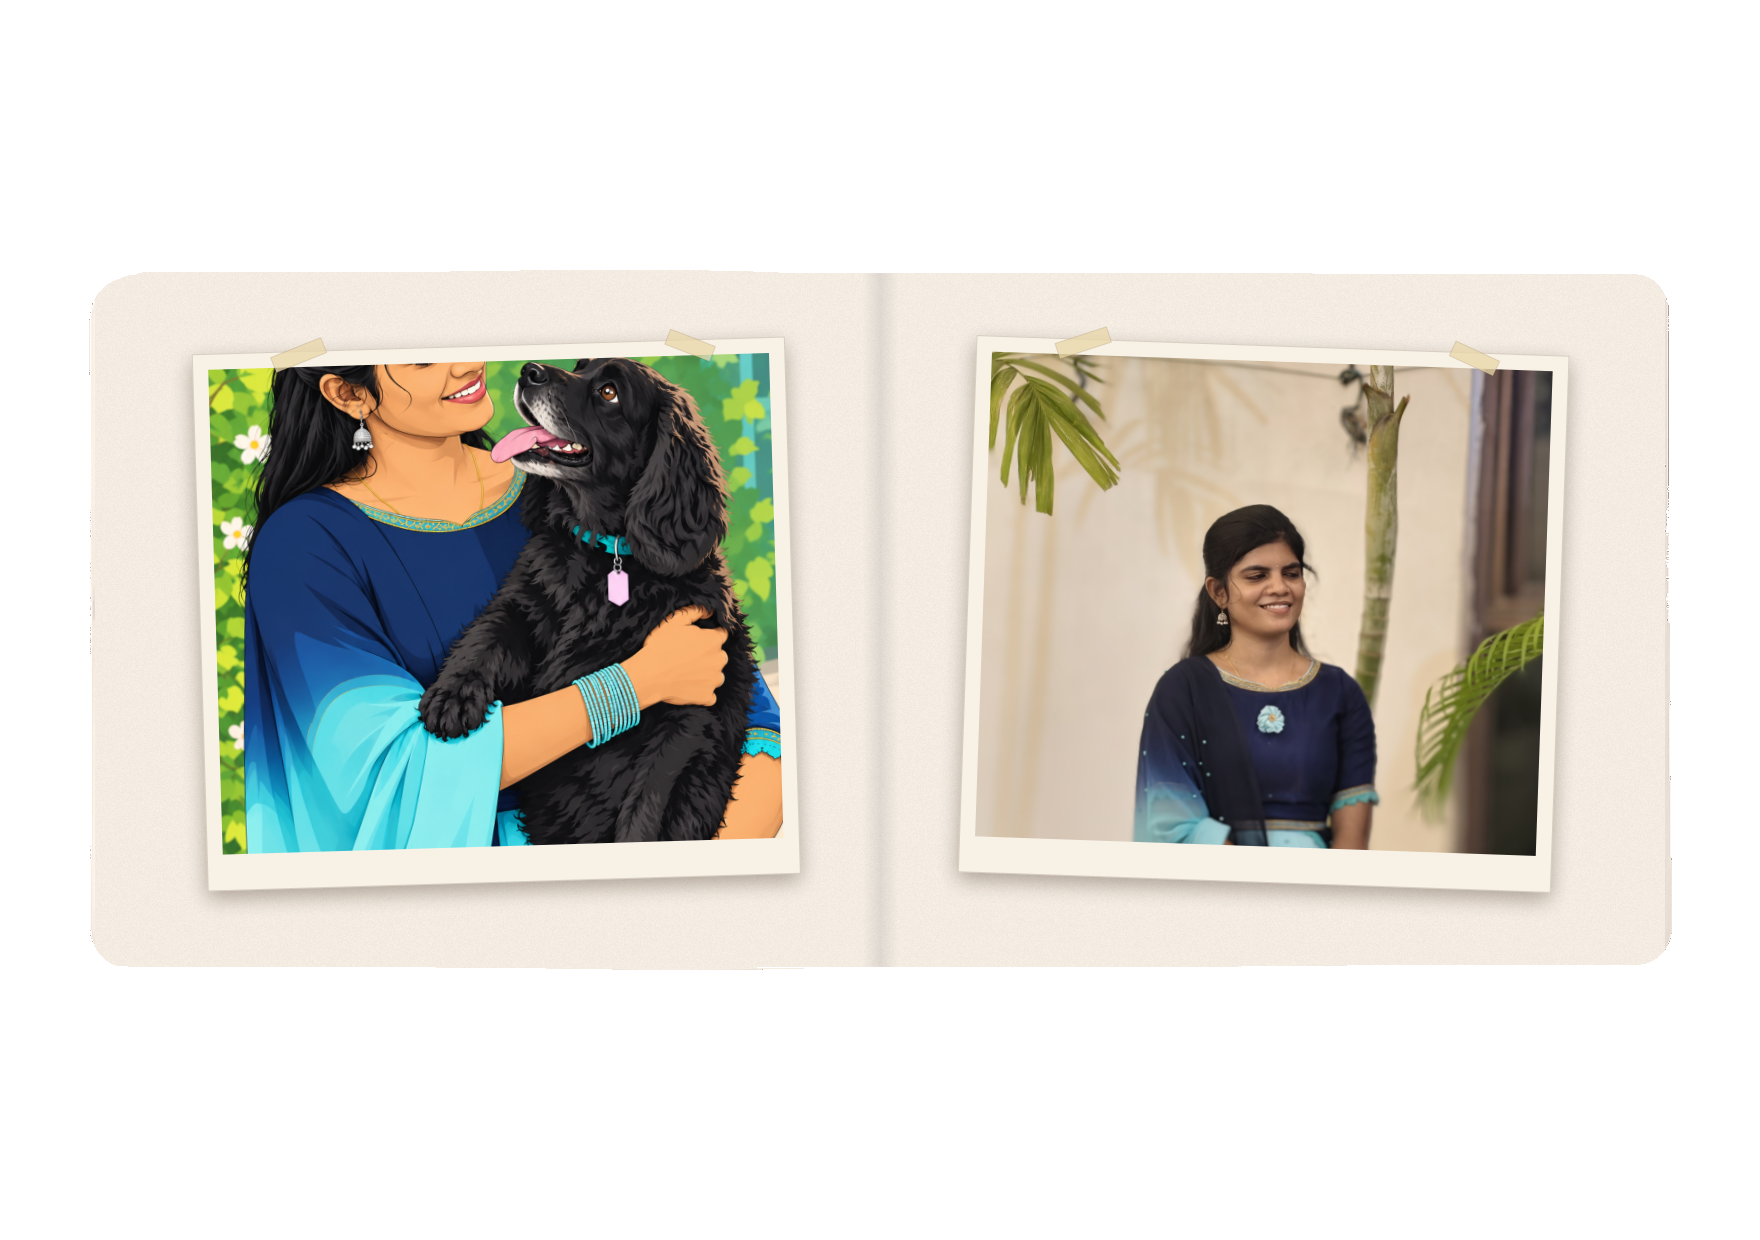
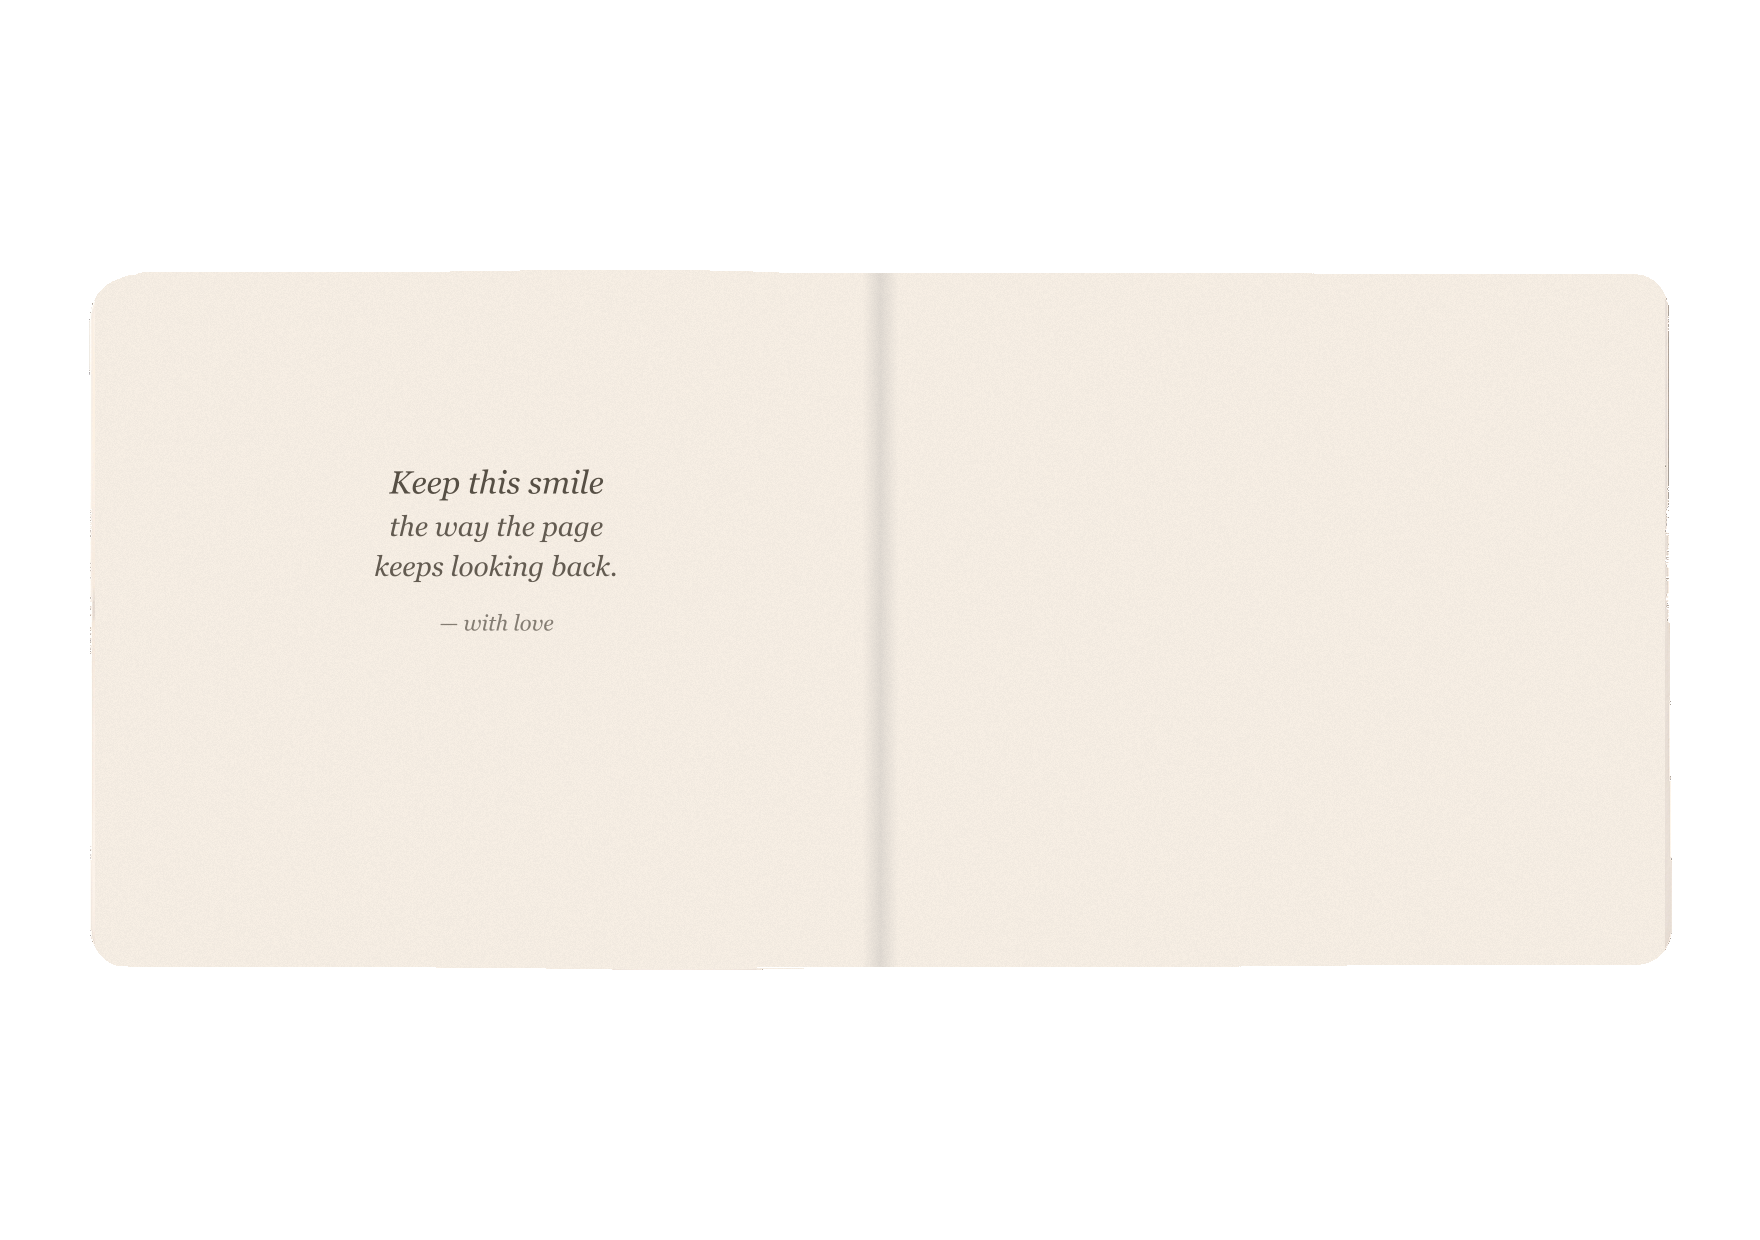
new chages

Changed region(s): [[0.0938, 0.2452, 0.4688, 0.7355], [0.5312, 0.2452, 0.9062, 0.7355]]

diff --git a/src/screens/AzhagiiiSketchbook.js b/src/screens/AzhagiiiSketchbook.js
@@ -2,12 +2,9 @@
 import './AzhagiiiSketchbook.css';
 
 const PHOTOS = [
-  '/photos/az-book/p0.png?v=2',
-  '/photos/az-book/p1.png?v=2',
-  '/photos/az-book/p2.png?v=2',
-  '/photos/az-book/p3.png?v=2',
-  '/photos/az-book/p4.png?v=2',
-  '/photos/az-book/p5.png?v=2',
+  '/photos/az-book/p0.png?v=3',
+  '/photos/az-book/p1.png?v=3',
+  '/photos/az-book/p2.png?v=3',
 ];
 const SKETCHES = [
   '/photos/az-book/sketches/marina-bay-sands.png',
@@ -23,7 +20,6 @@ const SKETCHES = [
 const PHOTO_N = PHOTOS.length;
 const SKETCH_N = SKETCHES.length;
 const LAND = 6;
-const N = 18;
 const SPAN = 0.449;
 const BETA = 0.6;
 const TILT_X = 4.5;
@@ -45,6 +41,7 @@ let closeWait = null;
 let introOn = false;
 let riffle = null;
 let riffleAt = 0;
+let introQueued = false;
 
 const view = { rx: 0, ry: 0, z: 1, trx: 0, try_: 0, tz: 1 };
 let viewActive = false;
@@ -57,6 +54,28 @@ function el(t, c) {
 
 function wrapN() {
   return introOn ? SKETCH_N : PHOTO_N;
+}
+
+function stripCount() {
+  return window.matchMedia('(pointer: coarse)').matches ? 12 : 18;
+}
+
+function useBlur() {
+  return !window.matchMedia('(pointer: coarse), (prefers-reduced-motion: reduce)').matches;
+}
+
+function phonePortrait() {
+  return window.matchMedia('(orientation: portrait) and (max-width: 900px)').matches;
+}
+
+function syncRotate() {
+  if (!overlay) return;
+  const need = open && phonePortrait();
+  overlay.classList.toggle('need-rotate', need);
+  if (!need && introQueued && open && !reduced) {
+    introQueued = false;
+    startIntro();
+  }
 }
 
 function sketchUrl(i) {
@@ -95,15 +114,16 @@ function halfEl(pos, i) {
 
 function buildCurl(dir, from, to) {
   strips = [];
+  const n = stripCount();
   const c = el('div', 'curl ' + dir);
-  c.style.setProperty('--n', N);
+  c.style.setProperty('--n', n);
   c.style.setProperty('--span', SPAN);
   let host = c;
-  for (let i = 0; i < N; i++) {
+  for (let i = 0; i < n; i++) {
     const s = el('div', 'strip');
     s.style.setProperty('--i', i);
     const gut = 'calc(var(--bw) * 0.5)';
-    const sw = 'calc(var(--bw) * ' + SPAN + ' / ' + N + ')';
+    const sw = 'calc(var(--bw) * ' + SPAN + ' / ' + n + ')';
     const A = 'calc(-1 * (' + gut + ' + ' + i + ' * ' + sw + '))';
     const B = 'calc(' + (i + 1) + ' * ' + sw + ' - ' + gut + ')';
     const f = el('div', 'face front');
@@ -120,7 +140,7 @@ function buildCurl(dir, from, to) {
     b.appendChild(el('div', 'gl'));
     s.appendChild(f);
     s.appendChild(b);
-    if (i === N - 1) s.classList.add('edge');
+    if (i === n - 1) s.classList.add('edge');
     host.appendChild(s);
     host = s;
     strips.push(s);
@@ -132,8 +152,9 @@ function applyTurn(t) {
   const th = Math.PI * t;
   const beta = BETA * Math.sin(Math.PI * t);
   const D = 180 / Math.PI;
+  const n = strips.length || stripCount();
   const tt = th + beta;
-  const td = (2 * beta) / N;
+  const td = (2 * beta) / n;
   sb3d.style.setProperty('--tt', (tt * D).toFixed(2) + 'deg');
   sb3d.style.setProperty('--td', (td * D).toFixed(3) + 'deg');
   sb3d.style.setProperty('--shade', Math.sin(Math.PI * t).toFixed(3));
@@ -315,7 +336,7 @@ function startIntro() {
     }
     riffleAt = 0;
     introOn = true;
-    wrap?.classList.add('intro');
+    if (useBlur()) wrap?.classList.add('intro');
   }
   riffleStep();
 }
@@ -447,7 +468,9 @@ function onKey(e) {
 }
 
 function onResize() {
-  if (open) layout();
+  if (!open) return;
+  syncRotate();
+  layout();
 }
 
 function bind() {
@@ -463,6 +486,7 @@ function bind() {
   rightBtn.addEventListener('click', () => step('next'));
   window.addEventListener('keydown', onKey);
   window.addEventListener('resize', onResize);
+  window.addEventListener('orientationchange', onResize);
 }
 
 function preload() {
@@ -508,17 +532,24 @@ export function openSketchbook() {
   view.ry = view.try_ = 0;
   view.z = view.tz = 1;
   open = true;
-  overlay.classList.remove('is-leaving');
+  introQueued = false;
+  overlay.classList.remove('is-leaving', 'need-rotate');
   overlay.classList.add('is-on');
   overlay.setAttribute('aria-hidden', 'false');
+  document.body.classList.add('az-book-open');
   applyView();
   introOn = !reduced;
-  if (introOn) wrap?.classList.add('intro');
+  if (introOn && useBlur()) wrap?.classList.add('intro');
   requestAnimationFrame(() => {
     layout();
     paint();
     requestAnimationFrame(() => {
       layout();
+      if (phonePortrait()) {
+        introQueued = !reduced;
+        overlay.classList.add('need-rotate');
+        return;
+      }
       setTimeout(startIntro, 40);
     });
   });
@@ -532,12 +563,14 @@ export function closeSketchbook() {
   }
   closing = true;
   open = false;
+  introQueued = false;
   drag = null;
   spring = null;
   turn = null;
   endIntro();
+  document.body.classList.remove('az-book-open');
   overlay.classList.add('is-leaving');
-  overlay.classList.remove('is-on');
+  overlay.classList.remove('is-on', 'need-rotate');
   overlay.setAttribute('aria-hidden', 'true');
   if (raf) {
     cancelAnimationFrame(raf);

diff --git a/src/screens/AzhagiiiSketchbook.css b/src/screens/AzhagiiiSketchbook.css
@@ -23,13 +23,15 @@
   user-select:none;
   -webkit-user-select:none;
   cursor:auto;
+  background:#0c0a08;
+  isolation:isolate;
 }
 #azSketch.is-on,
 #azSketch.is-leaving{
   visibility:visible;
   pointer-events:auto;
   opacity:1;
-  transition:opacity .45s ease;
+  transition:opacity .4s ease;
 }
 #azSketch.is-leaving{
   opacity:0;
@@ -40,8 +42,81 @@
   position:absolute;
   inset:0;
   background:
-    radial-gradient(ellipse 72% 60% at 50% 42%, rgba(28,18,10,.35) 0%, rgba(8,6,4,.78) 100%);
+    radial-gradient(ellipse 70% 58% at 50% 40%, #4a3a28 0%, #2a2118 38%, #0c0a08 100%);
   pointer-events:none;
+}
+
+body.az-book-open .music-box-btn,
+body.az-book-open .replay{
+  opacity:0 !important;
+  visibility:hidden !important;
+  pointer-events:none !important;
+}
+
+.az-sketch__rotate{
+  display:none;
+  position:absolute;
+  inset:0;
+  z-index:90;
+  flex-direction:column;
+  align-items:center;
+  justify-content:center;
+  gap:18px;
+  padding:24px;
+  text-align:center;
+  pointer-events:none;
+}
+#azSketch.need-rotate .az-sketch__rotate{ display:flex; }
+#azSketch.need-rotate .az-sketch__inner,
+#azSketch.need-rotate .sb-arrow{
+  visibility:hidden;
+  pointer-events:none;
+}
+.az-sketch__phone{
+  width:52px;
+  height:88px;
+  display:grid;
+  place-items:center;
+  animation:azPhoneTurn 1.8s ease-in-out infinite;
+}
+.az-sketch__phone-body{
+  width:40px;
+  height:68px;
+  border:2.5px solid #fde68a;
+  border-radius:8px;
+  box-shadow:inset 0 -6px 0 0 rgba(253,230,138,.18);
+  position:relative;
+}
+.az-sketch__phone-body::after{
+  content:"";
+  position:absolute;
+  left:50%;
+  bottom:6px;
+  width:10px;
+  height:3px;
+  border-radius:2px;
+  background:#fde68a;
+  transform:translateX(-50%);
+}
+.az-sketch__rotate-title{
+  margin:0;
+  color:#fde68a;
+  font-family:"Inter Tight",system-ui,sans-serif;
+  font-weight:600;
+  font-size:15px;
+  letter-spacing:.14em;
+  text-transform:uppercase;
+}
+.az-sketch__rotate-sub{
+  margin:0;
+  color:rgba(253,230,138,.72);
+  font-family:"Newsreader",Georgia,serif;
+  font-style:italic;
+  font-size:16px;
+}
+@keyframes azPhoneTurn{
+  0%, 28%{ transform:rotate(0deg); }
+  48%, 100%{ transform:rotate(90deg); }
 }
 
 .az-sketch__close{
@@ -90,7 +165,7 @@
   perspective:2200px;
 }
 #azSketch.is-on .az-sketch__inner{
-  animation:azBookIn .48s cubic-bezier(.2,.8,.2,1) both;
+  animation:azBookIn .55s .12s cubic-bezier(.2,.8,.2,1) both;
 }
 #azSketch.is-leaving .az-sketch__inner{
   animation:azBookOut .4s ease both;
@@ -299,12 +374,6 @@
 .sb-wrap.intro.b2 .face{ filter:url(#az-sb-mblur-2); }
 
 @media (max-width:767px){
-  .az-sketch__inner{
-    width:min(
-      calc(112vw / var(--art-w)),
-      calc(90dvh / var(--art-h) * 1760 / 1240)
-    );
-  }
   .az-sketch__close{ padding:8px 14px; font-size:11px; }
   .sb-arrow{
     position:fixed;
@@ -315,22 +384,22 @@
   .sb-arrow.left{ left:max(2px, env(safe-area-inset-left)); }
   .sb-arrow.right{ right:max(2px, env(safe-area-inset-right)); }
 }
-@media (max-width:480px){
-  .az-sketch__inner{
-    width:min(
-      calc(114vw / var(--art-w)),
-      calc(92dvh / var(--art-h) * 1760 / 1240)
-    );
-  }
-}
-@media (orientation:landscape) and (max-height:560px){
+@media (orientation:landscape) and (max-width:1100px){
   .az-sketch__inner{
     width:min(
       calc(94vw / var(--art-w)),
-      calc(96dvh / var(--art-h) * 1760 / 1240)
+      calc(92dvh / var(--art-h) * 1760 / 1240)
     );
   }
   .az-sketch__close{ top:8px; padding:7px 12px; font-size:11px; }
+}
+@media (pointer:coarse){
+  .sb-wrap.intro .sb-full img,
+  .sb-wrap.intro .sb-half-img,
+  .sb-wrap.intro .face,
+  .sb-wrap.intro.b2 .sb-full img,
+  .sb-wrap.intro.b2 .sb-half-img,
+  .sb-wrap.intro.b2 .face{ filter:none; }
 }
 
 @media (prefers-reduced-motion:reduce){

diff --git a/index.html b/index.html
@@ -674,6 +674,13 @@
 
       <div class="az-sketch" id="azSketch" role="dialog" aria-modal="true" aria-label="Opened sketchbook" aria-hidden="true">
         <div class="az-sketch__wash" aria-hidden="true"></div>
+        <div class="az-sketch__rotate" id="azSbRotate" aria-hidden="true">
+          <div class="az-sketch__phone" aria-hidden="true">
+            <span class="az-sketch__phone-body"></span>
+          </div>
+          <p class="az-sketch__rotate-title">Rotate your phone</p>
+          <p class="az-sketch__rotate-sub">Open the book in landscape</p>
+        </div>
         <button class="az-sketch__close" type="button" id="azSketchClose">
           <span class="az-sketch__x" aria-hidden="true">✕</span>
           <span>Close Book</span>
